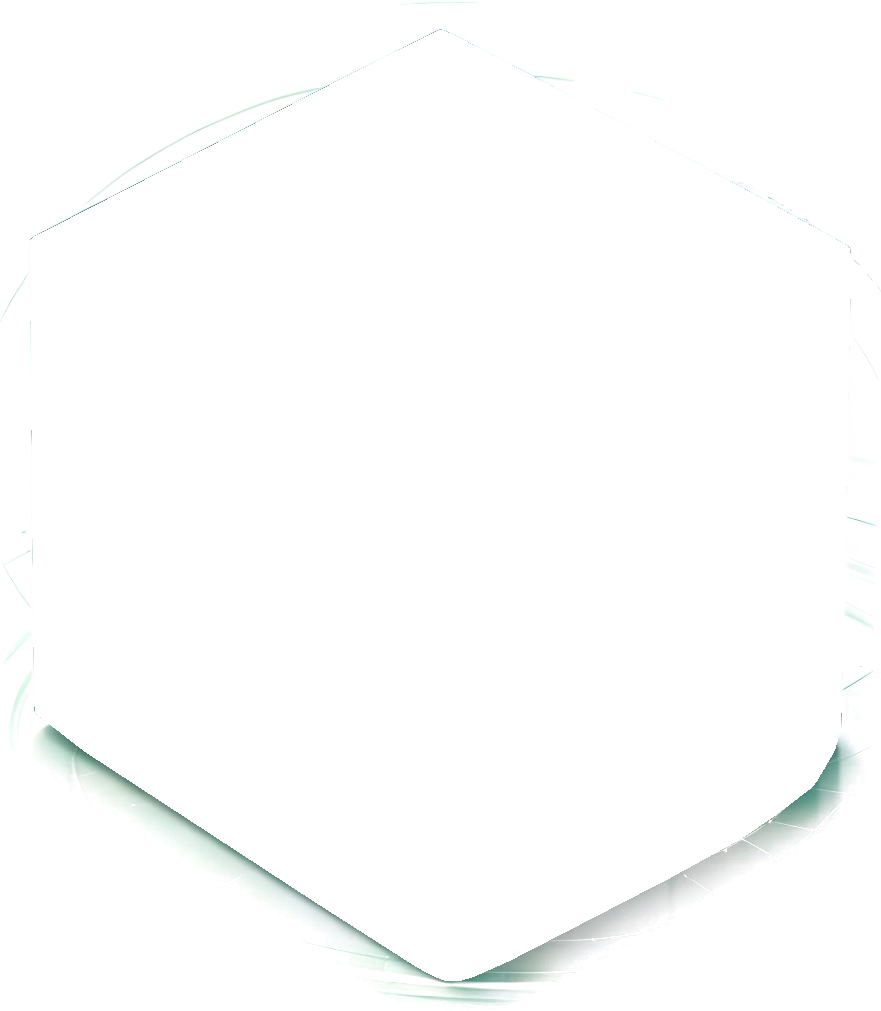
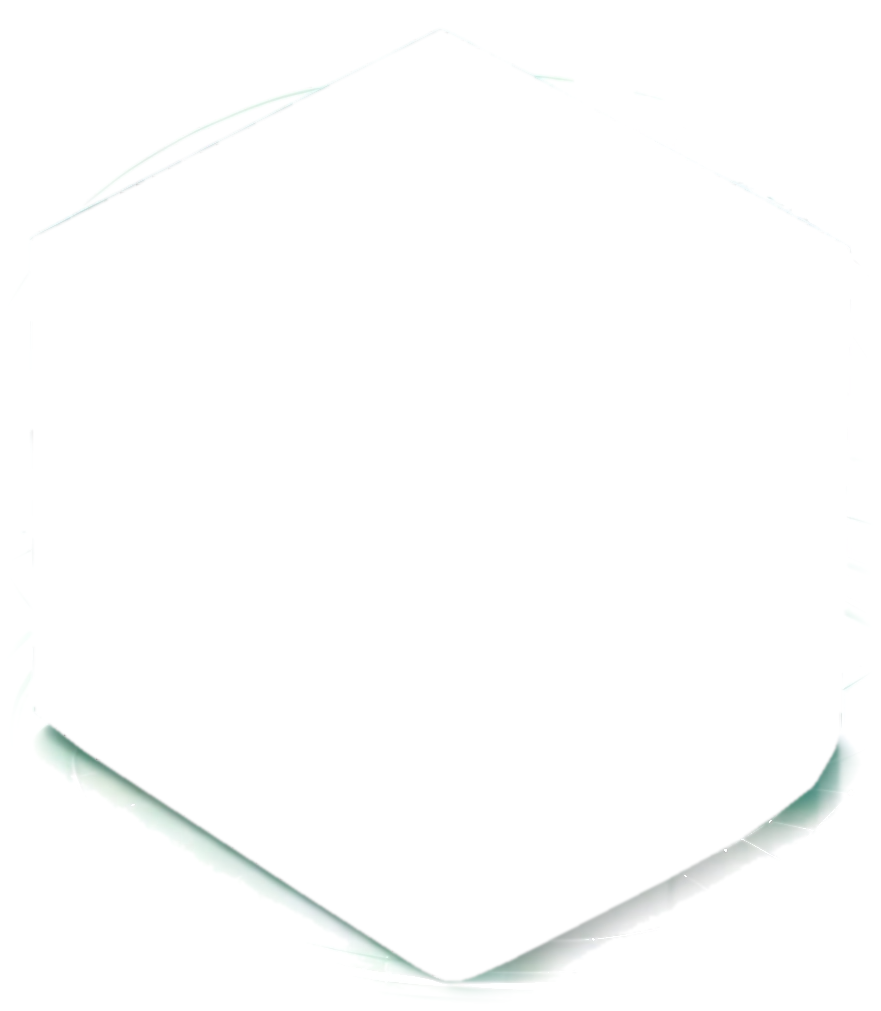
去掉首页横幅立方体周围的方框；分隔点不再换行到行首；充值卡有效期改为 2026 年 12 月 31 日
- 首页横幅：投影层类名 .shadow 与 Tailwind 的 shadow 工具类重名，被加上了 box-shadow，
  在投影层矩形边缘画出一圈浅色方框。改名为 .cube-shadow；投影图边缘同时渐隐到完全透明
- 「·」前改为不换行空格（中文段落内用 word joiner），换行时分隔点留在上一行末尾：
  案例页标题（中英日韩）、ChatU 页三处标题、智方体服务卡片、关于我们标题、韩文价值观、解决方案段落
- 充值卡背面有效期：中文版与英文版都改为 2026 年 12 月 31 日

Claude-Session: https://claude.ai/code/session_01Me9z13vKbVMuoCXUhTVz8n

diff --git a/src/content/chatu.ts b/src/content/chatu.ts
@@ -40,7 +40,7 @@ const zh = {
         points: ['文本/图像/语音/视频统一调度', '数字人交互能力', '全场景覆盖无短板'],
       },
       {
-        title: '多智能体 · 可编排',
+        title: '多智能体\u00A0· 可编排',
         points: ['Workflow 可视化编排', '企业级任务流自动化', '多智能体协同作业'],
       },
     ],
@@ -208,7 +208,7 @@ const zh = {
     // 案例文字本身见 src/content/cases.ts（中文为 src/data/cases.ts 原始数据）
   },
   pricing: {
-    title: '更灵活 · 更安全 · 更便捷',
+    title: '更灵活\u00A0· 更安全\u00A0· 更便捷',
     advantages: [
       '按需选择方案 · 无需高额一次性支付',
       '灵活控制成本 · 业务变化随时调整',
@@ -230,7 +230,7 @@ const zh = {
     ],
   },
   finalCta: {
-    title: '注册 ChatU · 赠送 10000 体验点数',
+    title: '注册 ChatU\u00A0· 赠送 10000 体验点数',
     subtitle: '企业试用申请 / 中控后台体验',
     register: '立即注册',
     trial: '申请企业试用',
@@ -288,7 +288,7 @@ const en: typeof zh = {
         ],
       },
       {
-        title: 'Multi-Agent · Orchestrable',
+        title: 'Multi-Agent\u00A0· Orchestrable',
         points: ['Visual Workflow orchestration', 'Enterprise-grade task flow automation', 'Multi-agent collaboration'],
       },
     ],
@@ -467,7 +467,7 @@ const en: typeof zh = {
     viewAll: 'View All Cases',
   },
   pricing: {
-    title: 'Flexible · Secure · Convenient',
+    title: 'Flexible\u00A0· Secure\u00A0· Convenient',
     advantages: [
       'Choose plans as needed · No large upfront payment',
       'Flexible cost control · Adjust anytime as your business changes',
@@ -488,7 +488,7 @@ const en: typeof zh = {
     ],
   },
   finalCta: {
-    title: 'Sign Up for ChatU · Get 10,000 Free Trial Credits',
+    title: 'Sign Up for ChatU\u00A0· Get 10,000 Free Trial Credits',
     subtitle: 'Apply for an enterprise trial / Try the admin console',
     register: 'Sign Up Now',
     trial: 'Request an Enterprise Trial',

diff --git a/src/views/SolutionsView.vue b/src/views/SolutionsView.vue
@@ -149,7 +149,7 @@ const solutions: Solution[] = [
     pain: '解决企业财务录入繁琐、办公运营低效、数据协同困难等问题，同时满足国企数据安全、国产化适配与合规审计要求，大幅降低人工成本、提升办公与决策效率。',
     icon: 'lucide:building-2',
     url: jjfaImages.kj,
-    cpsm: '面向通用企业场景，依托ChatU实现OCR票据识别、财务合规审核、办公文档自动生成、多源数据智能分析，轻量化落地企业运营与财务自动化；针对国企涉密合规场景，采用智方体·AgentStation本地化私有化部署，数据不出物理边界，适配国产化环境，实现智能公文处理、政策问答、报表汇总与全程留痕审计，兼顾通用企业提效与国资安全合规双重需求。'
+    cpsm: '面向通用企业场景，依托ChatU实现OCR票据识别、财务合规审核、办公文档自动生成、多源数据智能分析，轻量化落地企业运营与财务自动化；针对国企涉密合规场景，采用智方体\u2060·AgentStation本地化私有化部署，数据不出物理边界，适配国产化环境，实现智能公文处理、政策问答、报表汇总与全程留痕审计，兼顾通用企业提效与国资安全合规双重需求。'
   },
   {
     id: 'media',

diff --git a/src/components/HeroArt.vue b/src/components/HeroArt.vue
@@ -152,8 +152,8 @@ onUnmounted(() => cancelAnimationFrame(rafId))
     </div>
 
     <!-- 立方体投影：立方体浮起时变淡、略收小 -->
-    <div class="shadow absolute" :style="box(SHADOW)" aria-hidden="true">
-      <img :src="shadowUrl" alt="" class="shadow-img w-full h-full" draggable="false" />
+    <div class="cube-shadow absolute" :style="box(SHADOW)" aria-hidden="true">
+      <img :src="shadowUrl" alt="" class="cube-shadow-img w-full h-full" draggable="false" />
     </div>
 
     <!-- 立方体：入场上浮、持续悬浮、扫光 -->
@@ -296,14 +296,14 @@ onUnmounted(() => cancelAnimationFrame(rafId))
 }
 
 /* ---------- 投影随悬浮同步变化 ---------- */
-.is-playing .shadow {
+.is-playing .cube-shadow {
   animation: hero-fade-in 1.2s ease-out 0.15s both;
 }
-.shadow-img {
+.cube-shadow-img {
   transform-origin: 50% 92%;
   transform: translate3d(calc(var(--mx) * -6px), calc(var(--my) * -4px), 0);
 }
-.is-playing .shadow-img {
+.is-playing .cube-shadow-img {
   animation: hero-shadow 6s ease-in-out 1.4s infinite;
 }
 @keyframes hero-fade-in {

diff --git a/src/content/agentstation.ts b/src/content/agentstation.ts
@@ -236,7 +236,7 @@ const zh = {
       },
       {
         title: '多城社群网络',
-        desc: '线上交流经验，线下面对面分享；PEC 大会 · 350 万+ 社群',
+        desc: '线上交流经验，线下面对面分享；PEC 大会\u00A0· 350 万+ 社群',
       },
       {
         title: '客服与售后',
@@ -493,7 +493,7 @@ const en: typeof zh = {
       },
       {
         title: 'Multi-City Community',
-        desc: 'Swap experience online and meet face to face offline; PEC Conference · 3.5M+ community members',
+        desc: 'Swap experience online and meet face to face offline; PEC Conference\u00A0· 3.5M+ community members',
       },
       {
         title: 'Support & After-Sales',

diff --git a/src/i18n/locales/en.ts b/src/i18n/locales/en.ts
@@ -193,7 +193,7 @@ export default {
 
   cases: {
     hero: {
-      title: '3,000+ Enterprises · 100+ Industries · Proven Together',
+      title: '3,000+ Enterprises\u00A0· 100+ Industries\u00A0· Proven Together',
       desc: 'From government to individual creators — AI deployment validated across the board',
     },
     tabs: {
@@ -249,7 +249,7 @@ export default {
       desc: 'Authoritative Certifications · Continuous Innovation',
     },
     locations: {
-      title: 'Global Offices · Local Service',
+      title: 'Global Offices\u00A0· Local Service',
     },
     contact: {
       title: 'Multiple Ways · Contact Anytime',

diff --git a/src/views/ContactEnView.vue b/src/views/ContactEnView.vue
@@ -504,7 +504,7 @@ const partners = [
       <div class="max-w-7xl mx-auto px-4 sm:px-6 lg:px-8">
         <div class="text-center mb-6 md:mb-8">
           <h2 class="section-title">
-            Global Offices · Local Services
+            Global Offices&nbsp;· Local Services
           </h2>
         </div>
         <div ref="locationsRef" class="grid grid-cols-1 md:grid-cols-2 lg:grid-cols-4 gap-6">

diff --git a/src/views/ContactHgView.vue b/src/views/ContactHgView.vue
@@ -43,7 +43,7 @@ const missions = [
   {
     image: new URL('@/assets/gywm/3.webp', import.meta.url).href,
     title: '가치관 Values',
-    desc: '고객 최우선 · 혁신 주도 · 글로벌 시각 · 상생 협력 · 진실한 책임감',
+    desc: '고객 최우선\u00A0· 혁신 주도\u00A0· 글로벌 시각\u00A0· 상생 협력\u00A0· 진실한 책임감',
   },
 ]
 

diff --git a/src/i18n/locales/ko.ts b/src/i18n/locales/ko.ts
@@ -193,7 +193,7 @@ export default {
 
   cases: {
     hero: {
-      title: '3,000개 이상 기업 · 100개 이상 산업 · 함께 검증',
+      title: '3,000개 이상 기업\u00A0· 100개 이상 산업\u00A0· 함께 검증',
       desc: '정부부터 개인 창작자까지 — AI 도입 전면 검증 완료',
     },
     tabs: {

diff --git a/src/i18n/locales/ja.ts b/src/i18n/locales/ja.ts
@@ -193,7 +193,7 @@ export default {
 
   cases: {
     hero: {
-      title: '3,000社以上 · 100業界以上 · 共に実証',
+      title: '3,000社以上\u00A0· 100業界以上\u00A0· 共に実証',
       desc: '政府から個人クリエイターまで — AI導入は全面検証済み',
     },
     tabs: {

diff --git a/src/i18n/locales/zh-CN.ts b/src/i18n/locales/zh-CN.ts
@@ -212,7 +212,7 @@ export default {
   // ========================
   cases: {
     hero: {
-      title: '3000 家企业 · 100+ 行业 · 共同验证',
+      title: '3000 家企业\u00A0· 100+ 行业\u00A0· 共同验证',
       desc: '从政企到个人创作者，AI 落地已跑通',
     },
     tabs: {
